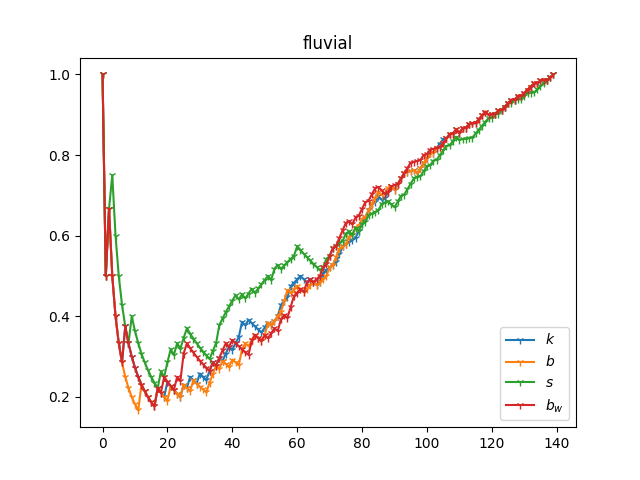
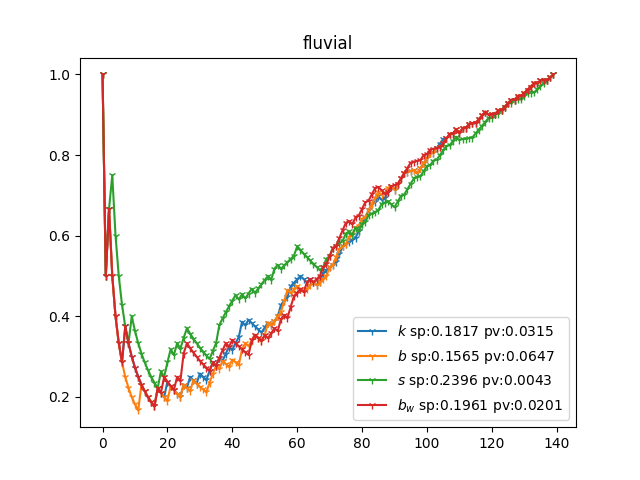
correlations

Changed region(s): [[0.625, 0.6562, 0.875, 0.875], [0.5625, 0.6875, 0.5938, 0.75], [0.5625, 0.7812, 0.5938, 0.8125]]

diff --git a/corres_checker.py b/corres_checker.py
@@ -3,7 +3,7 @@ import pandas as pd
 from igraph import *
 import numpy as np
 import matplotlib.pyplot as plt
-
+from scipy.stats import spearmanr
 def comparator(g, sorted, mobility):
     seq = np.array([0.0]*len(mobility))
     isMatch = notMatch =0.0
@@ -30,8 +30,10 @@ def graphPloter(list_of_coord, labels, name="teste"):
     for index, coord in enumerate(list_of_coord):
         x = coord[0]
         y = coord[1]
-
-        plt.plot(x, y, label=labels[index], marker="1")
+        sper = coord[2]
+        corr = str(sper[0])[:6]
+        pval = str(sper[1])[:6]
+        plt.plot(x, y, label=labels[index]+' sp: '+corr+' pv: '+pval, marker="1")
     
     plt.legend()
     plt.title(name)
@@ -54,10 +56,10 @@ def sort_by_metric(graph, metric):
 
     switcher = {
 
-        "degree": [(x, graph.degree(x)) for x in range(graph.vcount())],
-        "betweenness": [(x, graph.betweenness(x)) for x in range(graph.vcount())],
-        "strength": [(index, x) for index, x in enumerate(weighted)],
-        "betweenness_w": [(index, x) for index, x in enumerate(weighted)]    
+        "degree": [(x, graph.degree(x), graph.vs['label'][x]) for x in range(graph.vcount())],
+        "betweenness": [(x, graph.betweenness(x), graph.vs['label'][x]) for x in range(graph.vcount())],
+        "strength": [(index, x, graph.vs['label'][index]) for index, x in enumerate(weighted)],
+        "betweenness_w": [(index, x, graph.vs['label'][index]) for index, x in enumerate(weighted)]    
     }
     
 
@@ -94,5 +96,23 @@ def mapeador(mobility, graph):
     return[mob_id, g_id]
 
 
-mob = list(load_csv('fluvial')['city'])
-fl = load_graph_ml('fluvial')
+def mapper(mobility, sort_by_metr):
+
+    mob_list = np.arange(len(mobility))
+    lab_list = [-1]*len(mobility)
+    lab_list = np.asarray(lab_list)
+    label = [x[2] for x in sort_by_metr]
+
+    for index, mob, in enumerate(mobility):
+        
+        try:
+            ind = label.index(mob)
+            lab_list[index] = ind
+        except:
+            pass
+    
+    return spearmanr(mob_list, lab_list)
+
+
+# mob = load_csv('fluvial_by_death')
+# fl = load_graph_ml('fluvial')

diff --git a/main.py b/main.py
@@ -50,15 +50,20 @@ for process in to_process[:2]:
     x_axis = [x for x in range(graph.vcount())]
 
     corresp = correspondence_checker(mobility['city'], deg, graph)
-    _tuple.append((x_axis, corresp))
+    spear = mapper(mobility['city'], deg)
+    _tuple.append((x_axis, corresp, spear))
+
     corresp = correspondence_checker(mobility['city'], bet, graph)
-    _tuple.append((x_axis, corresp))
+    spear = mapper(mobility['city'], bet)
+    _tuple.append((x_axis, corresp, spear))
 
     corresp = correspondence_checker(mobility['city'], stre, graph)
-    _tuple.append((x_axis, corresp))
+    spear = mapper(mobility['city'], stre)
+    _tuple.append((x_axis, corresp, spear))
 
 
     corresp = correspondence_checker(mobility['city'], bet_w, graph)
-    _tuple.append((x_axis, corresp))
+    spear = mapper(mobility['city'], bet_w)
+    _tuple.append((x_axis, corresp, spear))
 
-    graphPloter(pair, ["$k$", "$b$", "$s$", "$b_{w}$"], name)
+    graphPloter(_tuple, ["$k$", "$b$", "$s$", "$b_{w}$"], name)
